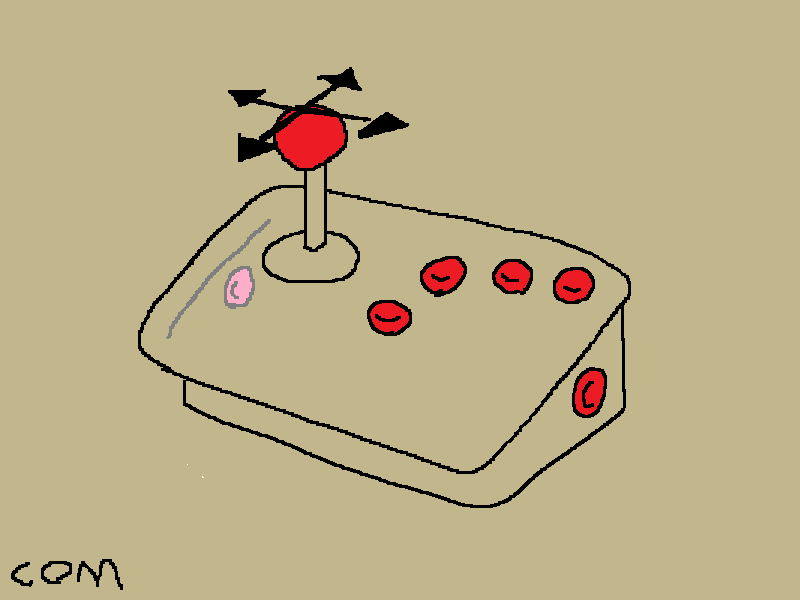
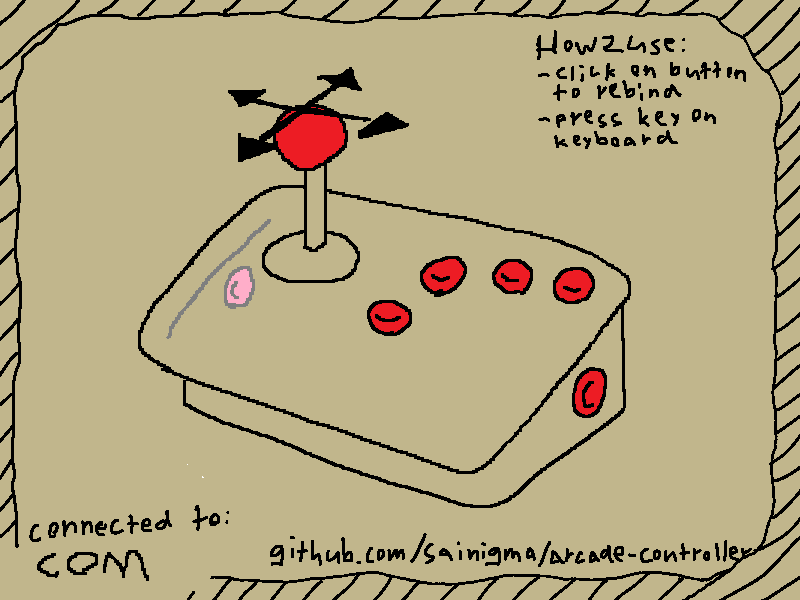
made the gui extremely fancy

diff --git a/keybinder/gui/gui.py b/keybinder/gui/gui.py
@@ -3,10 +3,10 @@ from tkinter import *
 from functools import partial
 #requires tk
 
-UPDATE_MS = int(1000/5)
+UPDATE_MS = int(1000/6)
 
-buttonLabels = ["BUTTON1", "BUTTON2", "BUTTON3", "BUTTON4", "BUTTON5", "BUTTON6", "RIGHT", "UP", "DOWN", "LEFT"]
-buttonPlaces = [(376,248), (430,208), (499,210), (564,218), (190,259), (618,355), (418,87), (348,21), (210,133), (200,46)]
+buttonLabels = ["BUTTON1", "BUTTON2", "BUTTON3", "BUTTON4", "BUTTON5", "BUTTON6", "RIGHT",    "UP",     "DOWN",   "LEFT"]
+buttonPlaces = [(376,248), (430,208), (499,210), (564,218), (180,259), (618,355), (418,115), (348,21), (205,170), (190,66)]
 
 #Maps tk keys to Keyboard.h designations
 with open("json/tkmap.json") as jsonFile:
@@ -45,11 +45,12 @@ class FunkyButton:
 
   def update(self):
     self.canvas.delete("all")
-    self.canvas.create_image(0,0,image=self.buttonbg.getFrame(), anchor="nw")
+    if self.buttonbg != None:
+      self.canvas.create_image(0,0,image=self.buttonbg.getFrame(), anchor="nw")
     self.canvas.create_image(-self.crop[0] * self.size[0] - 2, -self.crop[1] * self.size[1], image=self.bitmapFont.getFrame(), anchor="nw")
 
 class GUI:
-  def __init__(self, glue):
+  def __init__(self, glue, port):
     self.glue = glue
     self.root = Tk()
     self.buttons2 = {}
@@ -57,17 +58,22 @@ class GUI:
     
     self.backgroundAnimation = Animation('graphics/', 'background', 'png', 2)
     self.buttonbg = Animation("graphics/", "button", "png", 2)
-    self.bitmapFont = Animation("graphics/", "font", "png", 1)
+    self.bitmapFont = Animation("graphics/", "font", "png", 2)
 
     self.background = Canvas(master=self.root, width=800, height=600, cursor="arrow", relief='ridge')
     self.background.pack(fill = "both", expand = True)
     self.setBackground(self.backgroundAnimation.getFrame())
     self.addRebindButtons()
+    comport = port.split('COM')[1]
+    self.port = FunkyButton(self.root, (32,32), (160,550), None, self.bitmapFont, None)
+    self.port.crop = self.getFontCrop(comport)
+    self.port.canvas['cursor'] = ''
+    self.port.update()
 
   def getFontCrop(self, key):
     index = 0
     if len(key) == 1:
-      index = ord(key.capitalize())
+      index = ord(key)
     elif key in keymap:
       index = int(keymap[key])
     row = int(index / 16)
@@ -138,6 +144,8 @@ class GUI:
     frame = frame + 1
     self.backgroundAnimation.update()
     self.buttonbg.update()
+    self.bitmapFont.update()
+    self.port.update()
     self.setBackground(self.backgroundAnimation.getFrame())
     for button in self.buttons2:
       self.buttons2[button].update()

diff --git a/keybinder/main.py b/keybinder/main.py
@@ -14,6 +14,6 @@ kbinder = keybinder('Arduino Leonardo')
 
 binding = kbinder.getBinding()
 
-gui = GUI(glue)
+gui = GUI(glue, kbinder.port)
 gui.setBinding(binding)
 gui.start()